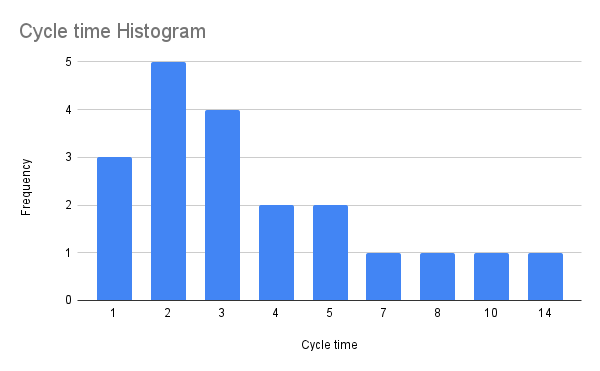
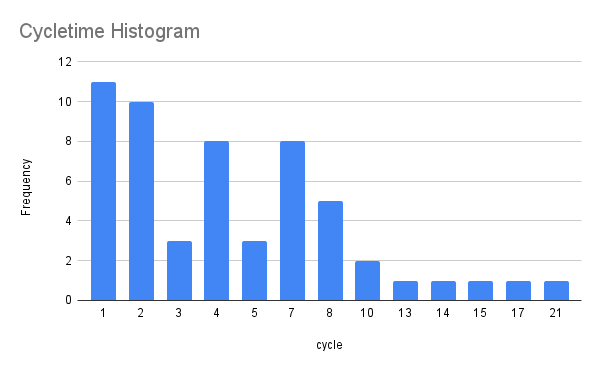
update probability forecast post

diff --git a/assets/main.scss b/assets/main.scss
@@ -61,7 +61,7 @@ $footer-bg-color: #EAEAEA;
     strong {
         color: $highlight-text-color;
     }
-    
+
     pre, code {
 	font-family: "Source Code Pro", "Consolas", "Courier New", Courier, monospace;
 	font-size: 0.8em;
@@ -112,6 +112,9 @@ $footer-bg-color: #EAEAEA;
 	    }
     }
 
+    td code.highlighter-rouge {
+        border: none;
+    }
 }
 
 .img-responsive-33 {
@@ -142,6 +145,12 @@ $footer-bg-color: #EAEAEA;
 
 .clear-right {
     clear: right;
+}
+
+.center {
+    display: block;
+    margin-left: auto;
+    margin-right: auto;
 }
 
 .clearfix {

diff --git a/_posts/2021-09-05-probabilistic-forecasting.md b/_posts/2021-09-05-probabilistic-forecasting.md
@@ -1,0 +1,350 @@
+---
+layout: post
+title: Probabilistic Forecasting, Monte Carlo simulations using Google Sheets
+---
+
+My first experience with Kanban was in 2012 or 2013 when, as manager of a 10-person sustaining engineering team, I needed to organize software delivery against internal SLAs. We were responsible for resolving Support issues escalated to Engineering. The time frames and priorities changed daily, if not hourly. Managing via Scrum with sprints was simply not adaptive enough. I found a [great primer](https://www.infoq.com/minibooks/priming-kanban-jesper-boeg/) from Jesper Boeg on Kanban and over a month or so reinvented our development and release process around Kanban metrics. The turn around was dramatic and the team wonderfully successful.
+
+This article shows how to build the sets of metrics and charts to perform probabilistic forecasting. I am leaving the evangelising to others. If you are interested, the Agile Alliance has published a [case study](https://www.agilealliance.org/resources/experience-reports/actionable-metrics-siemens-health-services/) of Siemens Health Services that is a great representation of applying these techniques.
+
+Forecasting can be used to answer either of the following questions.
+
+**When** may we complete N items?
+
+**How Many** items may we complete by D date?
+
+There are many products available to use Kanban and Lean metrics for your software development. However, I put this together because switching tools can be a major undertaking and not always an option. So, if you want to make use of forecasting based on Monte Carlo simulations but do not want to invest in time and money to completely switch your project management tools, here I will explain the steps I used to generate these results using Google Sheets are my spreadsheet.
+
+# The metrics
+
+The basic Kanban/Lean metrics are:
+
+- cycle time
+- throughput
+- work in progress
+
+**Cycle time** is the duration of time it takes to work on and complete an item.
+
+**Throughput** is the count of items completed during a time period.
+
+**Work in progress** is the count of items being worked on during a time period.
+
+The diagram used to view these three metrics is the cumulative flow diagram. Because this article is focused on building a forecast using a spreadsheet, I have omitted the CFD from here. If you are not familiar, you can find many resources online. Kanbanize has a one such [article](https://kanbanize.com/kanban-resources/kanban-analytics/cumulative-flow-diagram).
+
+The calculation of flow through a system is simply an application of [Little's Law](https://en.wikipedia.org/wiki/Little%27s_law). You can determine any of the three metrics, as follow:
+
+```
+WIP = Throughput * Cycle time
+```
+
+Or,
+
+```
+Throughput = WIP / Cycletime
+```
+
+Or,
+
+```
+Cycletime = WIP / Throughput
+```
+
+**Lead time** is the entire amount of time it takes an item to move through the system, not just the amount of time spent actively working on the item. For example, with 10 items in a queue your team won't begin working on the 10th item right away. The 10th item will sit ready to be worked on for a period of time. The lead time accounts for the time spent waiting, in addition to the actual cycle time.
+
+![Cycle time definition](/files/cycletime_def.png){:class="img-responsive-66 center"}
+
+The fundamental idea of optimizing flow through your system is limiting your work in progress. This is the easiest way to decrease the cycle time and increase the throughput. A great visual demonstration of this is on YouTube created by Michel Grootjans, [Explaining team flow](https://www.youtube.com/watch?v=bhpQKA9XYcE).
+
+However, lead time and improving your flow are beyond the scope of this article. Let's get straight to how you can use these metrics to forecast your delivery.
+
+I am using Google Sheets as my spreadsheet and the calculations make heavy use of the `QUERY` function. The [QUERY function](https://support.google.com/docs/answer/3093343?hl=en) uses [Google's Visualization API Query language](https://developers.google.com/chart/interactive/docs/querylanguage).
+
+# Capturing the raw data
+
+For the forecasting you will need to capture the start and end dates of work on each item.
+
+The steps in this article will cover using work days rather than calendar days, that is days excluding weekends (and holidays). You can choose what is right for your teams, I prefer normalizing to work days (maybe just out of habit). Either will work, as long as you and your stakeholders are aware of the base unit of time.
+
+The cycle time in work days calculation uses the `NETWORKDAYS` function:
+
+```
+=NETWORKDAYS('start date', 'closed date', [holidays])
+```
+
+Resulting two columns:
+
+|           A |          B |
+|-------------+------------|
+| closed date | cycle time |
+|  2021-08-02 |          2 |
+|  2021-08-03 |          3 |
+|  2021-08-04 |          3 |
+|  2021-08-04 |          1 |
+
+Everything else in the forecasting can be built from these values.
+
+# Cycletime scatterplot
+
+A scatterplot shows the distribution of your cycle times. It is also useful to view the trend of cycletimes by calculating the rolling average.
+
+Calculate the rolling average on 30 days with a `SELECT` statement finding all cycletimes (column B) that were closed between closed date and 30 days earlier. This uses the Visualization API `date` expression.
+
+```
+=AVERAGE(QUERY(A$2:B,
+         "SELECT B WHERE A > date '"&TEXT(A2-30, "yyyy-mm-dd")
+         &"' AND A <= date '"&TEXT(A2, "yyyy-mm-dd")&"'", -1))
+```
+
+
+Note that the `QUERY` range locks the range to begin at row 2, `$2` and sets the optional headers argument to `-1`, meaning the selected range has no header rows. Alternatively, you can lock row 1, `$1` and provide headers argument `1` so the query language will recognize row 1 as headers of the range.
+
+| A           | B          | C               |
+|-------------|------------|-----------------|
+| closed date | cycle time | rolling average |
+| 2021-08-02  | 2          | 5.416666667     |
+| 2021-08-03  | 3          | 5.230769231     |
+| 2021-08-04  | 3          | 4.8             |
+| 2021-08-04  | 1          | 4.8             |
+
+Now you can create a scatterplot chart including a secondary rolling average plot. In this example data you can clearly see that the 30-day rolling average started to tick back up (e.g. slow down) in September. This is a trend you can then discuss with the team to better understand.
+
+![Cycle time scatterplot](/files/scatterplot.png){:class="img-responsive-66 center"}
+
+# Cycletime probability
+
+Create a pivot table to view a histogram of cycletimes. Set the pivot table row as 'cycle time' and the values as 'COUNTA(cycle time)'.
+
+| cycle time | COUNTA(cycle time) |
+|------------|--------------------|
+| 1          | 11                 |
+| 2          | 10                 |
+| 3          | 3                  |
+| 4          | 8                  |
+
+Then, create a bar chart.
+
+![Cycle time histogram](/files/histogram.png){:class="img-responsive-66 center"}
+
+Determine the likelihood of future items' cycle times by using the `PERCENTILE` formula to calculate a range of possible cycletimes. The formula refers to the sheet comtaining the cycle time data `'cycle time'!$B2:$B` and the cell above the formula `B1`:
+
+```
+=PERCENTILE('cycle time'!$B$2:$B,B1)
+```
+
+Note that the range is locked on column B that is the cycle time column. Allowing you to drag the formula horizontally while referring to the percentages in the preceding row.
+
+
+| A           | B    | C   | D    | E    | F     |
+|-------------|------|-----|------|------|-------|
+| Probability | 0.25 | 0.5 | 0.75 | 0.85 | 0.98  |
+| Cycletime   | 2    | 4   | 7    | 8    | 16.84 |
+
+Now you can see that 85% of the time the cycle time for a single item is less than or equal to 8 days.
+
+# Throughput
+
+Next, to forecast either of your outcomes, When or How Many, you need to calculate your throughput.
+
+Again, Throughput is simply the number of items completed during a time period, and I like to calculate based on work days rather than calendar days.
+
+The simplest formula for thoughput relies on knowing the count of items completed between your start and end dates.
+
+We will go back to the `NETWORKDAYS` formula to determine the workdays in our time period.
+
+```
+=NETWORKDAYS('start date', 'closed date', [holidays])
+```
+
+The item completed count can simply be the `COUNTA` of the cycletime columns or `ROWS` in the range. If your data table includes more than your target range, you can use the `QUERY` or `FILTER` functions.
+
+```
+=COUNTA('cycle time'!B$2:B)
+```
+
+And the throughput is simple the result of count of items divided by the workdays in the period.
+
+```
+=B5/B4
+```
+
+| A                          | B            |
+|----------------------------|--------------|
+| Period Start               | 2021-07-01   |
+| Period End                 | 2021-09-25   |
+| Workdays in Period         | 62           |
+| Completed in Period        | 55           |
+| Throughput (count/workday) | 0.8870967742 |
+
+This calculation however has one drawback in that you can' calculate the standard deviation of your throughput, and the `STDEV` is required for running a Monte Carlo simulation.
+
+## Base Throughput
+
+I am interested in calculating workday throughput but first I want to visualize the base throughput.
+
+Create a data table including all the dates of your time period. Enter your start date in format `yyyy-mm-dd`, then drag the cell down until your end date. Then, use the `QUERY` formula to extract a count of items closed per date.
+
+```
+=IFERROR(ROWS(QUERY('cycle time'!A$2:B,
+         "SELECT B WHERE A = date '"&TEXT(A2, "yyyy-mm-dd")&"'", -1)), 0)
+```
+
+*Here I exclude the header row using `A$2:B` in the range and `-1` as optional headers argument.*
+
+| A          | B     |
+|------------|-------|
+| Date       | Count |
+| 2021-08-01 | 0     |
+| 2021-08-02 | 1     |
+| 2021-08-03 | 1     |
+| 2021-08-04 | 2     |
+| 2021-08-05 | 5     |
+
+Now, creating a line chart will show the throughput over our time period, including the weekends. This nice from a human view point to remember that we should take advantage of our weekends and holidays!
+
+![Throughput base](/files/throughputbase.png){:class="img-responsive-66 center"}
+
+## Workday Throughput
+
+In order to make prediction based on workdays, we need to transform this calendar view to workdays. Here is a cool little formula that will generate the workday dates, and then we can use a slightly more complex `QUERY` formula to count all the items closed on a given workday.
+
+The formula in two columns looks like this. Simple drag the cells down to include your target range.
+
+| Date                  | Count per workday                                                                                                                                                        |
+| 2021-07-01            | `=IFERROR(ROWS(QUERY('cycle time'!A$2:B$56, "SELECT B WHERE A >= date '"&TEXT(D2, "yyyy-mm-dd")&"' AND A < date '"&TEXT(WORKDAY(D2, 1),"yyyy-mm-dd")&"'", -1)), 0)` |
+| `=WORKDAY(D$2,ROW(D1))` | `=IFERROR(ROWS(QUERY('cycle time'!A$2:B$56, "SELECT B WHERE A >= date '"&TEXT(D3, "yyyy-mm-dd")&"' AND A < date '"&TEXT(WORKDAY(D3, 1),"yyyy-mm-dd")&"'", -1)), 0)` |
+
+The Date column formula uses the relative positioning of the `ROW` to calculate the number of workdays `WORKDAY(D$2, ROW(D1))` from the start date `2021-07-01`.
+
+The Count per workday formula selects all rows where the closed date Column A is greater than or equal to the date and less than the next workday `WORKDAY(D2, 1)`. And is wrapped in an `IFERROR` that returns zero if no items were closed within that date range. Any items completed outside of a workday will be counted in the preceding workday. For example, an item closed on Saturday will increment Friday's count by one.
+
+The result is a data table excluding weekends (and holidays, if you fill in the optional holidays range).
+
+|          D |                 E |
+|------------+-------------------|
+|       Date | Count per workday |
+| 2021-08-05 |                 5 |
+| 2021-08-06 |                 4 |
+| 2021-08-09 |                 1 |
+| 2021-08-10 |                 0 |
+
+This workday data now comtains enough detail to accurately calculate the throughput average (mean) and also standard deviation.
+
+| workdays mean   | `=AVERAGE('throughput base'!E2:E)` |
+| workdays stdev  | `=STDEV('throughput base'!E2:E)`   |
+| workdays median | `=MEDIAN('throughput base'!E2:E)`  |
+| workdays mode   | `=MODE('throughput base'!E2:E)`    |
+
+Resulting data table give you all the values needs to perform a Monte Carlo simulation based on throughput.
+
+| workdays mean   | 0.8870967742 |
+| workdays stdev  | 1.229485281  |
+| workdays median | 0.5          |
+| workdays mode   | 0            |
+
+You can also generate a probability table of your throughput, similar to the cycle time probability. Again, using the `PERCENTILE` formula as described earlier.
+
+| Probability | 0.25 | 0.5 | 0.75 | 0.85 | 0.98 |
+|-------------|------|-----|------|------|------|
+| Throughput  | 0    | 0.5 | 1    | 2    | 4.78 |
+
+If you are wondering why the Mode and the 98% are included, you can read about [thin-tailed versus fat-tailed distributions](https://getnave.com/blog/thin-tailed-vs-fat-tailed-distribution/). In short, thin-tailed distributions yield higher accuracy predictions.
+
+Now that you have all your data tables setup, it is time to run the simulations.
+
+# Monte Carlo: When
+
+First, you want to know **when** you will complete 30 items, based on historical throughput.
+
+Simulation:	When will we complete N items?
+Throughput (mean):	0.8870967742
+Throughput (stdev):  1.229485281
+Start date:	2021-10-11
+Item count:	30
+
+The Monte Carlo simulation is simply the division of your count of items by the `NORMINV` formula, repeated 10s of thousands of times.
+
+| A                               | B                    |
+|---------------------------------|----------------------|
+| Throughput                      | Workdays             |
+| `=NORMINV(RAND(), mean, stdev)` | `=ROUNDUP(count/A1`) |
+|                                 |                      |
+
+
+What I have done in the spreadsheet is create a seperate sheet, and drag this formula down 1000 rows. Then copy and paste columns A:B, **paste values only**, 10 times across, yielding 10K results. Then on another sheet combine the results into 1 large static table.
+
+In Google Sheets, the combination of ranges is down by using the `={range;range;range;...}` expression.
+
+```
+={'data'!D1:E1000;'data'!F1:G1000;'data'!H1:I1000;'data'!J1:K1000;'data'!L1:M1000;'data'!N1:O1000;'data'!P1:Q1000;'data'!R1:S1000;'data'!T1:U1000;'data'!V1:W1000}
+```
+
+The throughput simulation distribution can be viewed by creating a pivot table on the resulting workday count colum. This explains the use of the `ROUNDUP` function.
+
+![Workdays distribution](/files/montecarlowhen.png){:class="img-responsive-66 center"}
+
+## When probability forecast
+
+Use the when data table `$B14:$B` and the facts table above, and the `PERCENTILE` formula to calculate your probability forecast.
+
+| Probability | 0.25                    |
+| Workdays    | `=PERCENTILE($B14:$B,B6)` |
+| End date    | `=WORKDAY($B3,B$7)`       |
+
+
+Resulting in
+
+| Probability | 0.25       | 0.5       | 0.75      | 0.85       | 0.98      |
+|-------------|------------|-----------|-----------|------------|-----------|
+| Workdays    | 8          | 19        | 37        | 57         | 418.02    |
+| End date    | 10/21/2021 | 11/5/2021 | 12/1/2021 | 12/29/2021 | 5/18/2023 |
+
+# Monte Carlo: How Many
+
+Second, you want to know **how many** items you will complete by a certain end date.
+
+Simulation:	How many items can we complete by date D?
+Throughput (mean):	0.8870967742
+Start date:	2021-10-11
+End date:	2021-11-19
+Workdays in period:	30
+
+Again, use the `NETWORKDAYS` function calculate the days in the time period.
+
+This simulation is simply the multiplication of the workdays in your time period and the `NORMINV` formula, repeated 10K times.
+
+
+| A                                                                              | B                                         |
+| Throughput                                                                     | Item count                                |
+| =NORMINV(RAND(), main, stdev) | =ROUNDUP(workdays * A1) |
+
+What I have done in the spreadsheet is create a seperate sheet, and drag this formula down 1000 rows. Then copy and paste columns A:B, **paste values only**, 10 times across, yielding 10K results. Then on another sheet combine the results into 1 large static table.
+
+In Google Sheets, the combination of ranges is down by using the `={range;range;range;...}` expression.
+
+```
+={'data'!D1:E1000;'data'!F1:G1000;'data'!H1:I1000;'data'!J1:K1000;'data'!L1:M1000;'data'!N1:O1000;'data'!P1:Q1000;'data'!R1:S1000;'data'!T1:U1000;'data'!V1:W1000}
+```
+
+The throughput simulation distribution can be viewed by creating a pivot table on the resulting item count colum. This explains the use of the `ROUNDUP` function.
+
+![Item count distribution](/files/montecarlohowmany.png){:class="img-responsive-66 center"}
+
+## How many probability forecast
+
+Use the when data table `$B14:$B` and the facts table above, and the `PERCENTILE` formula to calculate your probability forecast.
+
+| Probability | 0.25                                                            |
+| Items       | `=PERCENTILE(QUERY($B15:$B, "SELECT B WHERE B > 0", -1),1-B$6)` |
+
+*Note: The percentage is inverted, `1-$B$6`, because it is more likely we will complete less items rather than more items. It doesn't make sense to say we have a 25% chance to complete 20 items, but a 75% to complete 60.*
+
+Resulting in
+
+| Probability | 0.25 | 0.5 | 0.75 | 0.85 | 0.98 |
+|-------------|------|-----|------|------|------|
+| Items       | 60   | 38  | 20   | 13   | 2    |
+
+
+And that's it. Next, I will be folding this into a small analytics project and use Pandas to perform the projections for me.
+
+ I hope this is helpful to you.
